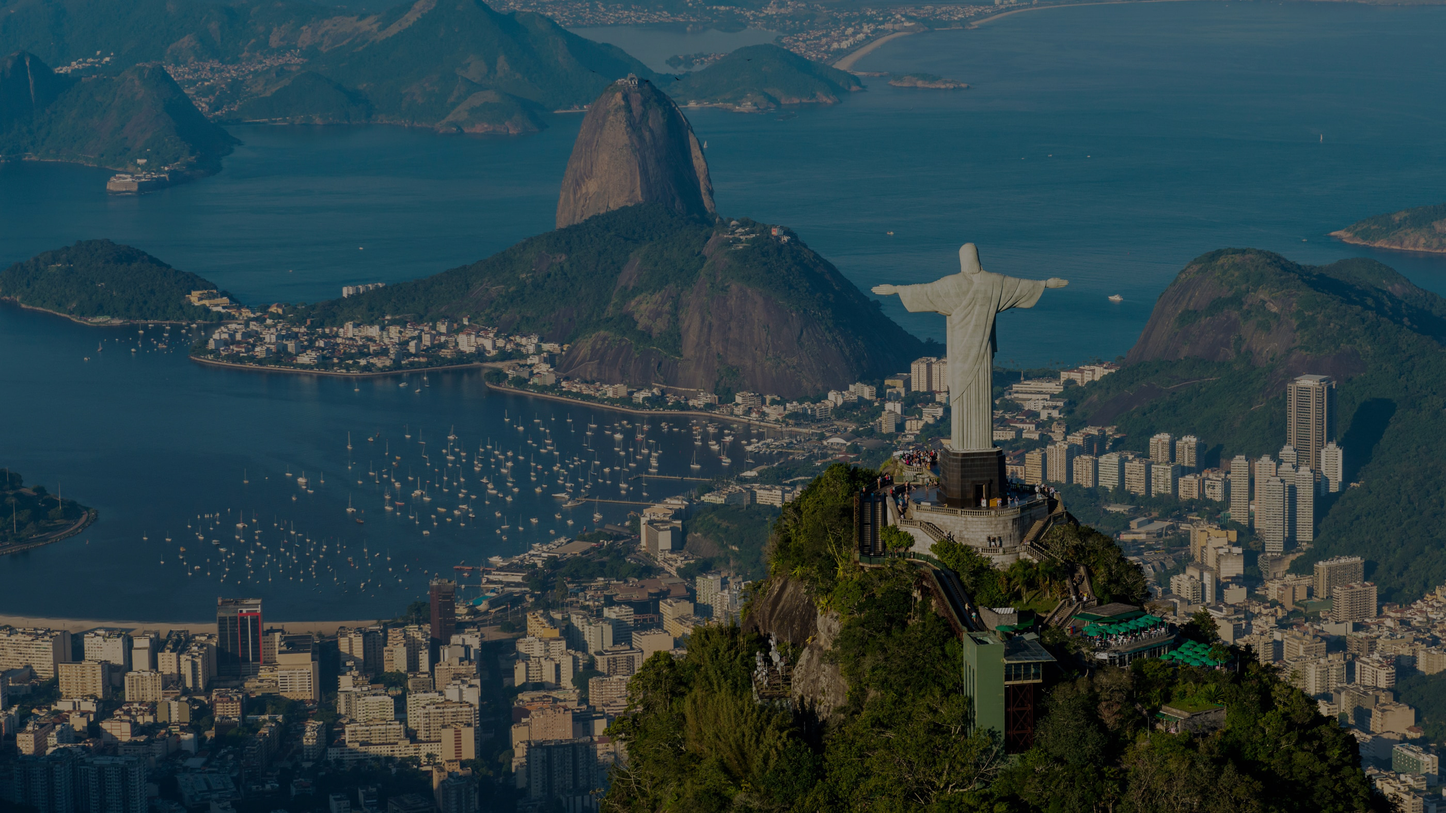
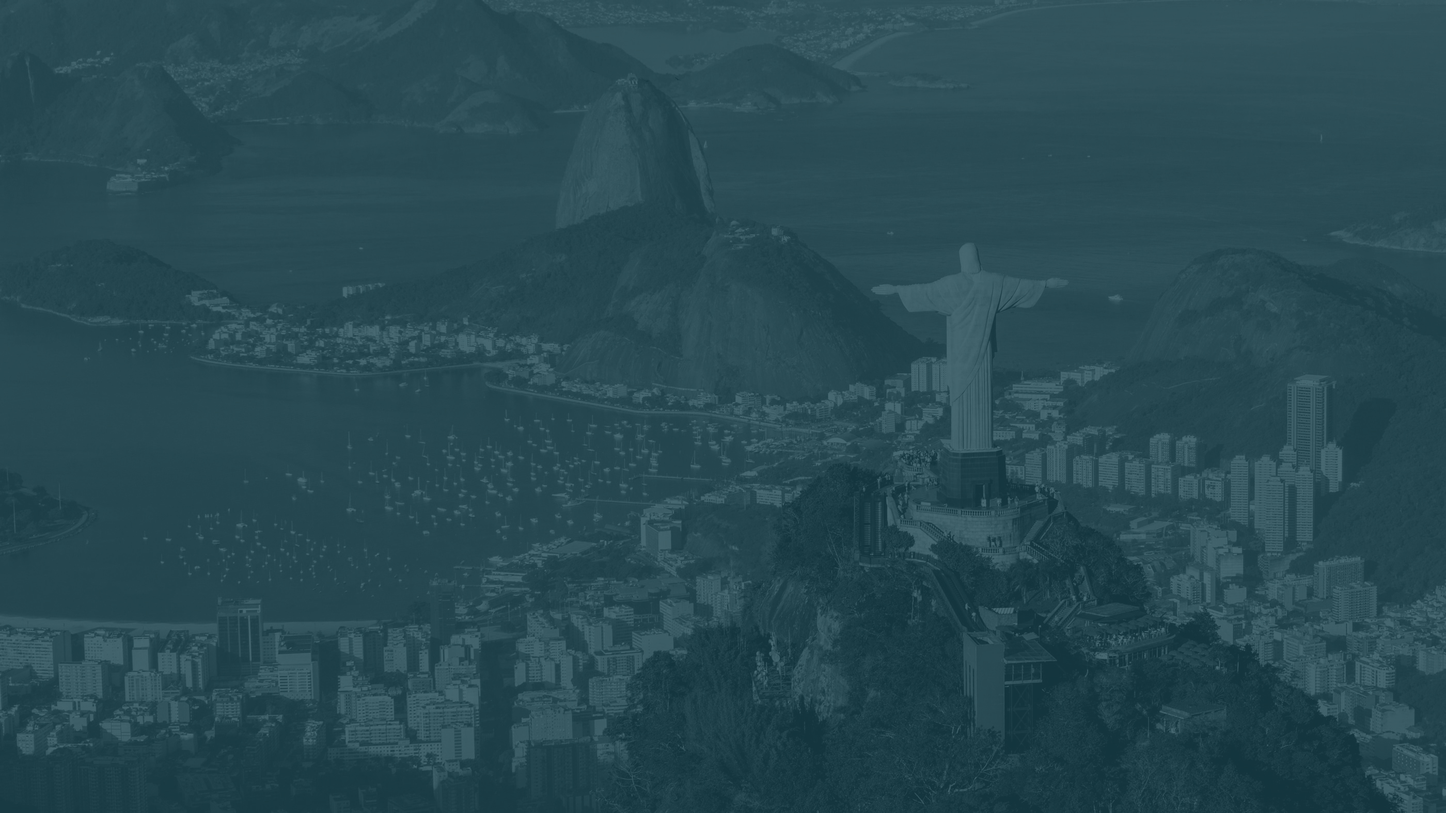
Commit

diff --git a/_includes/footer.html b/_includes/footer.html
@@ -1,6 +1,49 @@
 <div class="footer">
-
-      <img style="width:100%;" src="{{ site.baseurl }}/img/rodape.png">
+      <div class="container">
+            <div class="container">
+                <div class="col-xs-6"><h3 style="color:#0e1b4d;margin-bottom:0px;">Organização</h3>
+                <br><svg width="45" height="25">
+                        <rect width="45" height="5" style="fill:#00bfc3" />
+                    </svg>
+                    <br>
+          <a href="http://prefeitura.rio/"><img style="width:100px;margin-left:15px;margin-right:15px;margin-bottom:30px;" src="{{ site.baseurl }}/img/organizacao/logo-prefeitura.png"></a>
+          <a href="http://abmen.org.br/"><img style="width:100px;margin-left:15px;margin-right:15px;margin-bottom:30px;" src="{{ site.baseurl }}/img/organizacao/logo-abimen.png"></a>
+          <a href="https://itdpbrasil.org/"><img style="width:100px;margin-left:15px;margin-right:15px;margin-bottom:30px;" src="{{ site.baseurl }}/img/organizacao/itdp.png"></a>
+                </div>
+          <div class="col-xs-6"><h3 style="color:#0e1b4d;margin-bottom:0px;">Parceiros</h3>
+          <br><svg width="45" height="25">
+              <rect width="45" height="5" style="fill:#00bfc3" />
+          </svg>
+          </div>
+          <br>
+          <a href=""><img style="width:100px;margin-left:30px;margin-right:30px;margin-bottom:30px;" src="{{ site.baseurl }}/img/parceiros/ics.png"></a>
+          <a href=""><img style="width:100px;margin-left:30px;margin-right:30px;margin-bottom:30px;" src="{{ site.baseurl }}/img/parceiros/c40.png"></a>
+          <br>
+          <h3 style="color:#0e1b4d;margin-bottom:0px;">Apoio</h3>
+          <br><svg width="45" height="25">
+              <rect width="45" height="5" style="fill:#00bfc3" />
+          </svg>
+          <br>
+          <a href=""><img style="width:100px;margin-left:30px;margin-right:30px;margin-bottom:30px;" src="{{ site.baseurl }}/img/apoio/bdm.png"></a>
+          <a href=""><img style="width:100px;margin-left:30px;margin-right:30px;margin-bottom:30px;" src="{{ site.baseurl }}/img/apoio/a4pm.png"></a>
+          <br>
+          <h3 style="color:#0e1b4d;margin-bottom:0px;">Suporte em produtos/serviços</h3>
+          <br><svg width="45" height="25">
+              <rect width="45" height="5" style="fill:#00bfc3" />
+          </svg>
+          <br>
+          <div><a href="http://www.addtech.com.br/"><img style="width:100px;margin-left:30px;margin-right:30px;margin-bottom:30px;" src="{{ site.baseurl }}/img/suporte/addtech-logo.png"></a>
+          <a href="http://www.coletivo.org.br/"><img style="width:100px;margin-left:30px;margin-right:30px;margin-bottom:30px;" src="{{ site.baseurl }}/img/suporte/coletivo.png"></a>
+          <a href="https://www.ntu.org.br/"><img style="width:100px;margin-left:30px;margin-right:30px;margin-bottom:30px;" src="{{ site.baseurl }}/img/suporte/ntu.png"></a>
+          <a href="http://www.rioonibus.com/"><img style="width:100px;margin-left:30px;margin-right:30px;margin-bottom:30px;margin-top:10px;" src="{{ site.baseurl }}/img/suporte/rio-onibus.png"></a>
+          <a href="https://www.scipopulis.com/"><img style="width:100px;margin-left:30px;margin-right:30px;margin-bottom:30px;margin-top:10px;" src="{{ site.baseurl }}/img/suporte/scipopulis.png"></a>
+        </div><div>
+          <a href="https://www.visionaris.com.br/"><img style="width:100px;margin-left:30px;margin-right:30px;margin-bottom:30px;margin-top:10px;" src="{{ site.baseurl }}/img/suporte/visionaris.png"></a>
+          <a href="https://moovitapp.com/?lang=pt-br"><img style="width:100px;margin-left:30px;margin-right:30px;margin-bottom:30px;margin-top:10px;" src="{{ site.baseurl }}/img/suporte/moovit.png"></a>
+          <a href="https://latinamerica.uitp.org/pt"><img style="width:100px;margin-left:30px;margin-right:30px;margin-bottom:30px;margin-top:10px;" src="{{ site.baseurl }}/img/suporte/uitp.png"></a>
+          <a href="www.sebrae.com.br/sites/PortalSebrae"><img style="width:100px;margin-left:30px;margin-right:30px;margin-bottom:30px;margin-top:10px;" src="{{ site.baseurl }}/img/suporte/sebrae.png"></a>
+        </div>
+        <br>
       <br>
       <p class="text-muted">
           Copyright &copy;II Desafio COR  (fork projeto <a href="https://github.com/Maronato/transparencia-data-catalog">Transparência Unicamp</a>).

diff --git a/catalog.html b/catalog.html
@@ -17,7 +17,10 @@ scripts:
 <div class="container">
 
 
-  <h1 class="page-title centered">Catálogo de dados</h1>
+  <h1 class="page-title centered" style="color:#0e1b4d;margin-bottom:0px;">Catálogo de dados</h1><br>
+  <svg style="display:block;margin:auto;" width="45" height="25" >
+    <rect width="45" height="5" style="fill:#00bfc3;" />
+  </svg>
 
   <p class="lead">
     Esse é o inventário de dados abertos para o II Desafio COR, apresentando <span id="catalog-count">dezenas de</span>
@@ -40,7 +43,10 @@ scripts:
   <br />
 
   <div class="col-sm-3">
-    <h3 class="page-header">Categorias</h3>
+    <h3 style="color:#0e1b4d;margin-bottom:0px;">Categorias</h3><br>
+    <svg width="45" height="25">
+      <rect width="45" height="5" style="fill:#00bfc3;" />
+  </svg>
     <div class="list-group" id="filter-category">
     {% for category in site.data.categories %}
       <a href="{{ site.baseurl }}/catalog/index.html?category={{ category.slug }}" class="list-group-item" id="filter-category-{{ category.slug }}">
@@ -48,7 +54,11 @@ scripts:
       </a>
     {% endfor %}
     </div>
-    <h3 class="page-header">Tipos</h3>
+    <h3 style="color:#0e1b4d;margin-bottom:0px;">Tipos</h3><br>
+   <svg width="45" height="25">
+            <rect width="45" height="5" style="fill:#00bfc3;" />
+        </svg>
+
     <div class="list-group" id="filter-type">
         {% for filetype in site.data.filetypes %}
           <a href="{{ site.baseurl }}/catalog/index.html?type={{ filetype.name }}" class="list-group-item" id="filter-type-{{ filetype.name }}">

diff --git a/index.html b/index.html
@@ -13,8 +13,10 @@ styles:
             <div class="title">
                 <!-- <h2 class="text-white lead"><em>The Harvard Open Data Project presents</em></h2> -->
 
-                <img style="height:100px;" src="{{ site.baseurl }}/img/C40_Cities_Climate_Leadership_Group_Logo.png"/>
+                <img style="height:80px;" src="{{ site.baseurl }}/img/logo_dcor.png"/>
+                <img style="height:80px;" src="{{ site.baseurl }}/img/labgovrio-topo-cor.png"/>
                 <h1 class="text-white"><b>II Desafio COR</b></h1>
+                <h1 style="color: #2cb6bc;"><b>SMART CITY SMART PEOPLE</b></h1>
             </div>
 
             <form action="{{ site.baseurl }}/catalog/index.html" method="GET">
@@ -34,7 +36,10 @@ styles:
 <br/>
 
 <div class="container">
-    <h2 class="page-header text-centered">Categorias</h2>
+        <h2 class="text-centered" style="color:#0e1b4d;margin-bottom:0px;">Categorias</h2>
+        <br><svg  style="display:block;margin:auto;" width="45" height="25">
+                <rect width="45" height="5" style="fill:#00bfc3;" />
+            </svg>
     <div class="row">
         {% for category in site.data.categories %}
         <div class="col-xs-6 col-sm-3">

diff --git a/css/main.scss b/css/main.scss
@@ -141,22 +141,22 @@ body {
 
 /* Transparência Colors */
 .navbar-red {
-    background-color: white;
-    border-color: #98c93c;
+    background-color: #18424c;
+    border-color: #2cb6bc;
 }
 
 .btn-primary {
     color: #ffffff;
-    background-color: #98c93c;
-    border-color: white;
+    background-color: #2cb6bc;
+    border-color: #2cb6bc;
 }
 
 .text-primary {
-    color: #98c93c;
+    color: #2cb6bc;
 }
 
 .navbar-red .navbar-nav>.active>a, .navbar-red .navbar-nav>.active>a:hover, .navbar-red .navbar-nav>.active>a:focus {
-    background-color: #98c93c;
+    background-color: #2cb6bc;
 }
 
 /* Transparência tags */
